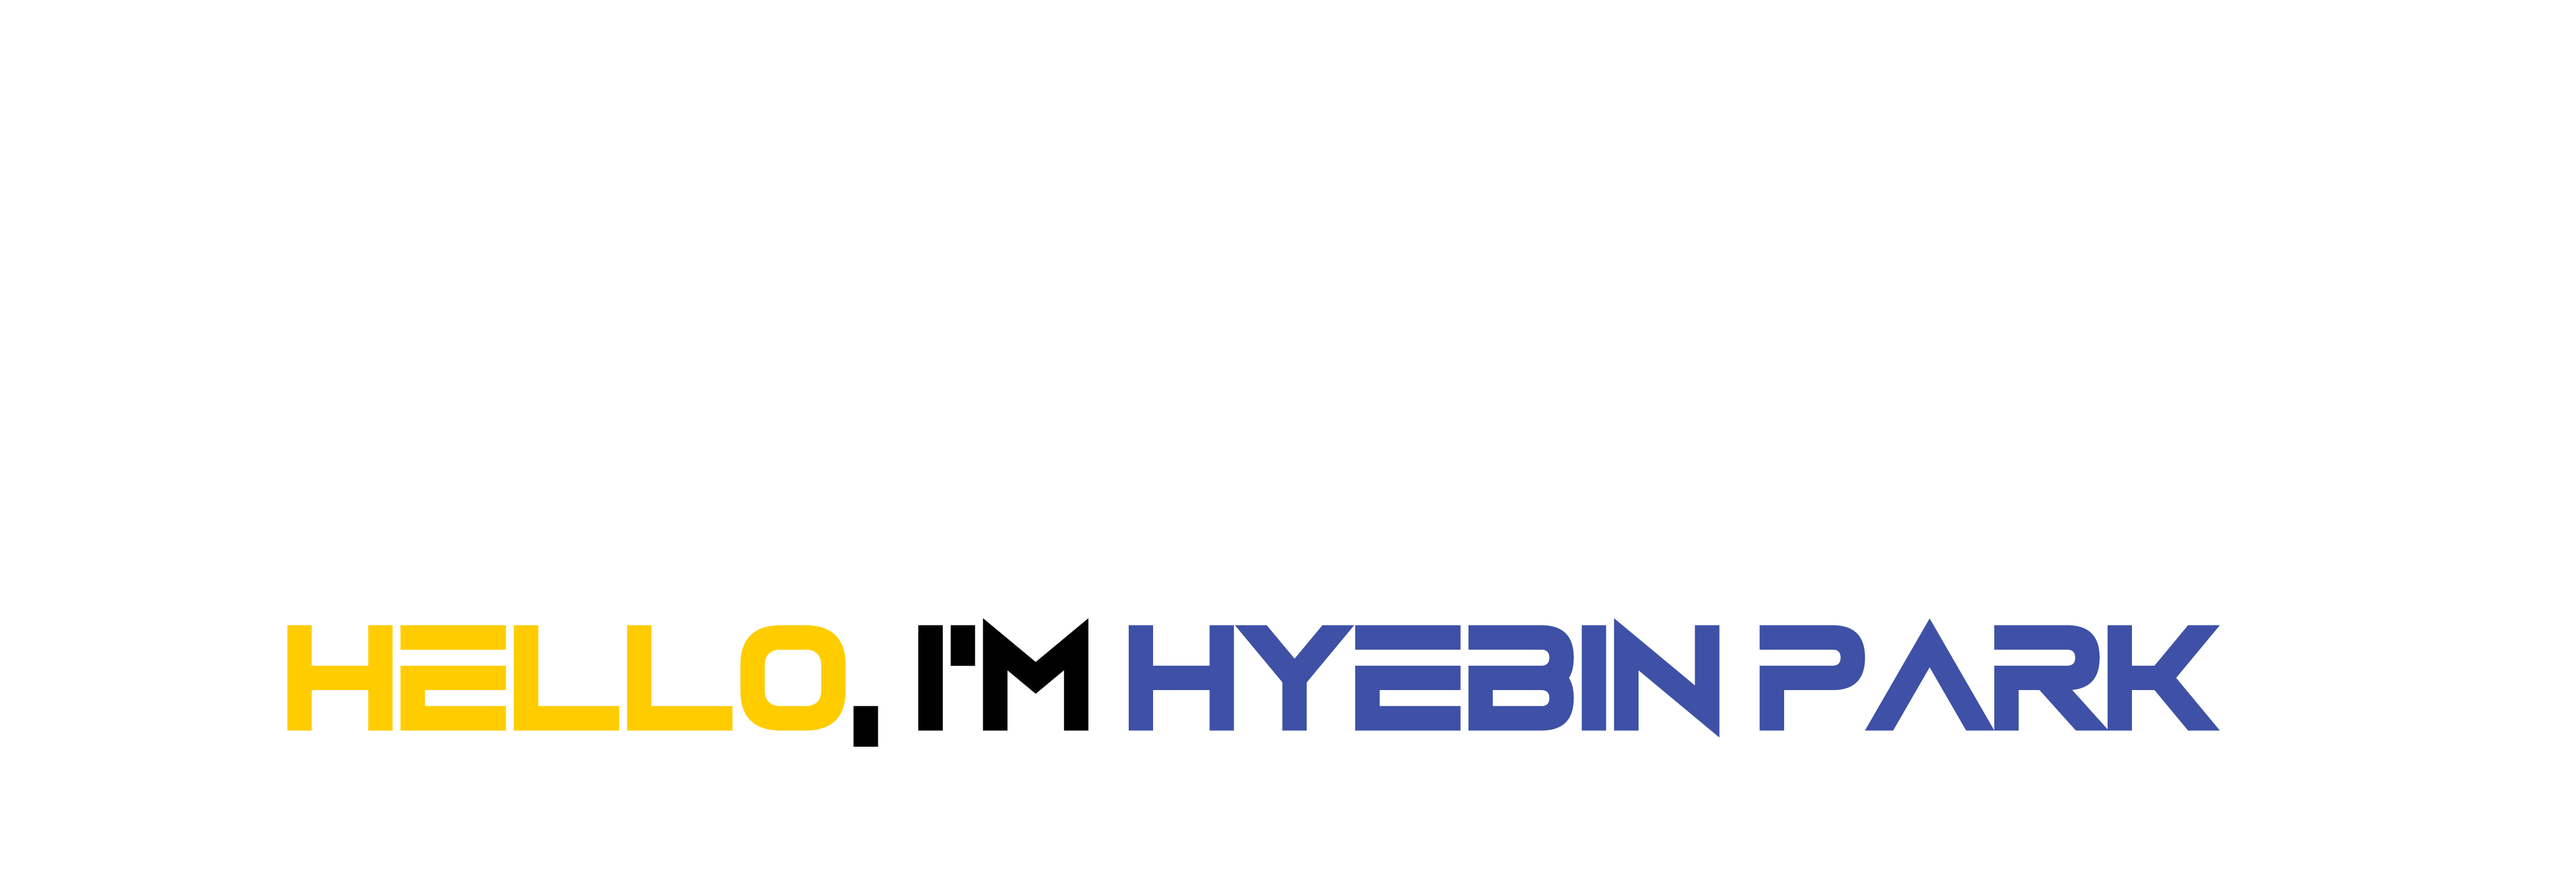
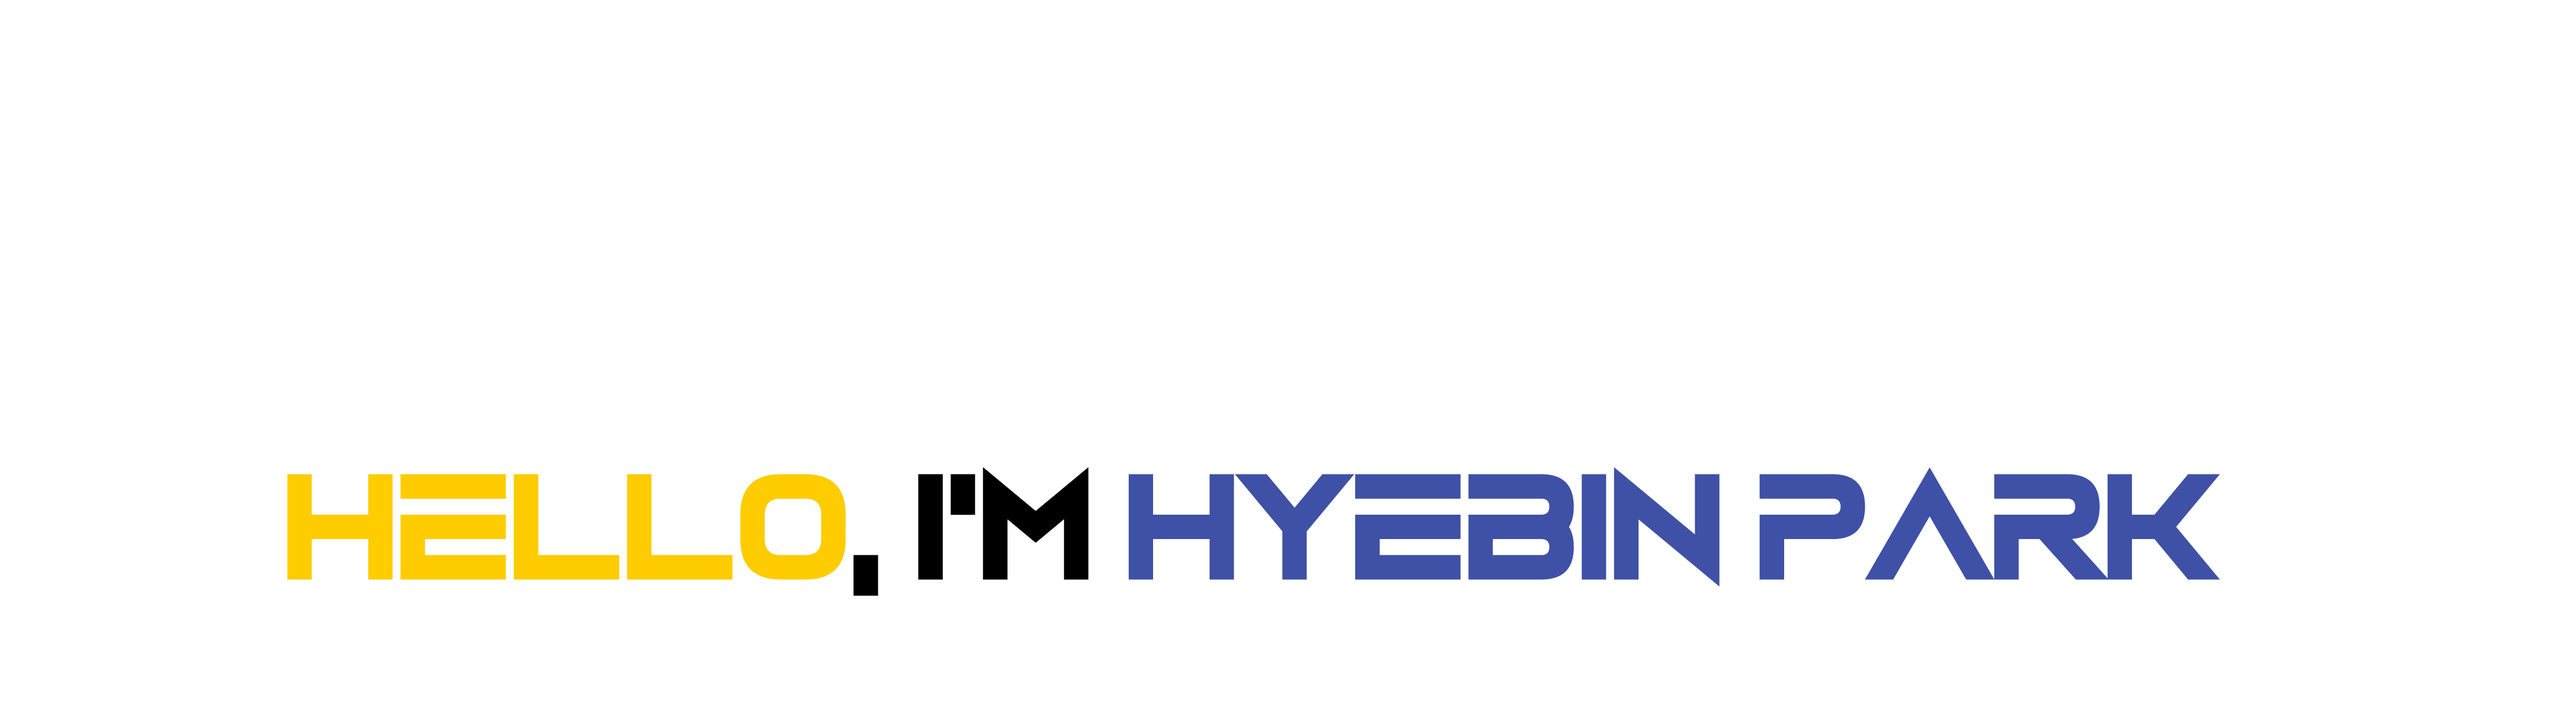
Update README.md: change picture

Changed region(s): [[0.0936, 0.6546, 0.874, 0.8728]]

diff --git a/README.md b/README.md
@@ -1,6 +1,6 @@
 ## Hyebin Park
 
-<p align="center"><a href="https://aai.seoultech.ac.kr"><img width="100%" alt="Hello, I'm Hyebin Park" src="./picture/gh-readme-header.png" /></a></p>
+<p align="center"><a href="https://aai.seoultech.ac.kr"><img width="95%" alt="Hello, I'm Hyebin Park" src="./picture/gh-readme-header.png" /></a></p>
 
 <p align="center"><a href="https://aai.seoultech.ac.kr"><img width="100%" alt="bar" src="./picture/bar.png" /></a></p>
 
